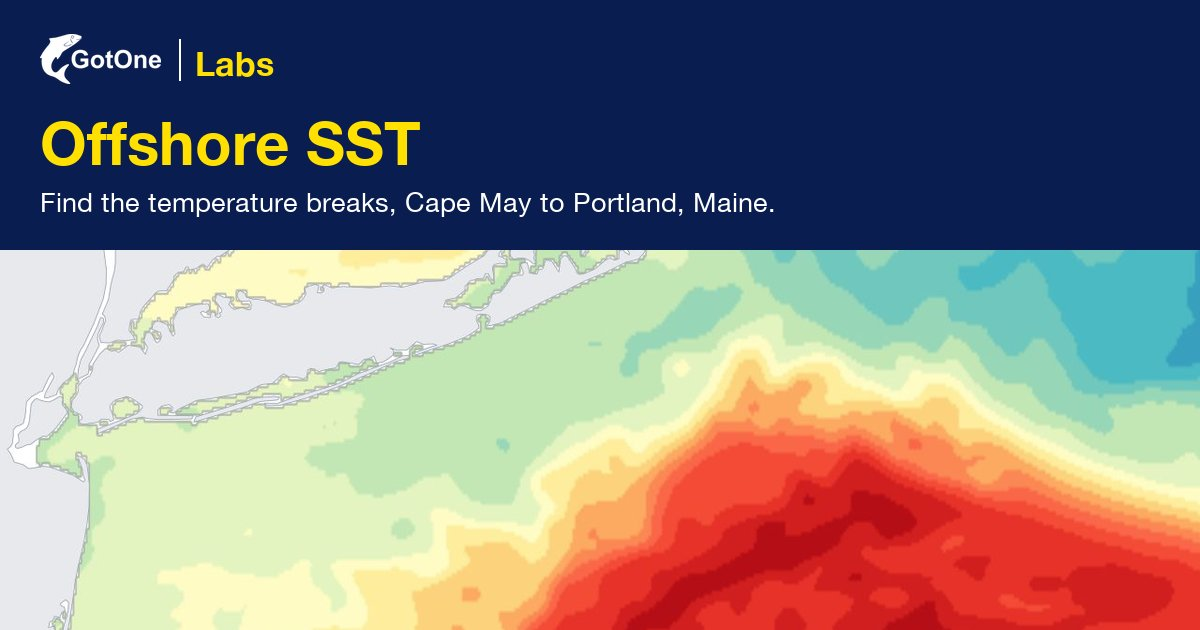
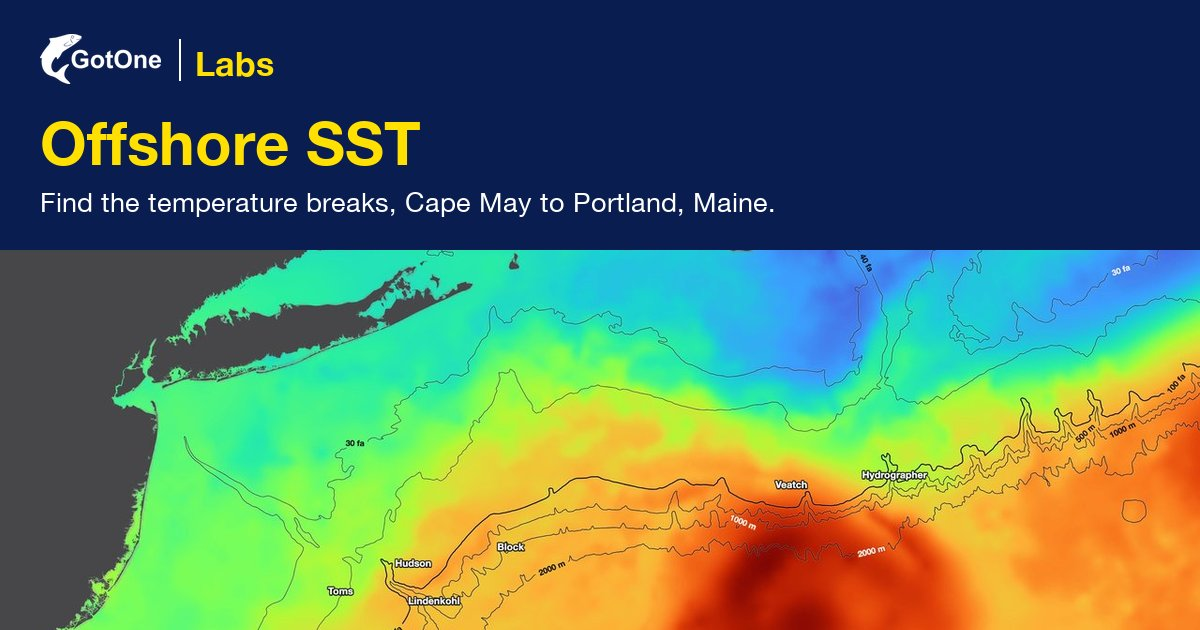
Labs previews: SST tile and share cards show the new map look
The SST tile, its link-preview card and the Labs card are now screenshots of the
live map (tools/shoot_sst_preview.mjs: basemap tiles blocked, controls and spot
dots hidden) instead of a matplotlib render in the old colors. The Labs card's
og:image carries a content hash like the tool cards.

diff --git a/tools/build_labs_previews.py b/tools/build_labs_previews.py
@@ -3,9 +3,9 @@
 
 Drawn from the apps' own data so the tiles show what each tool looks like:
 
-  sst.jpg       a week's last day of MUR SST from the local disk cache, in the
-                SST map's own colours (map/overlay.array_to_rgba), Long Island
-                to the canyons, land from Natural Earth (data/geo.py)
+  sst.jpg       the live SST map itself (tools/shoot_sst_preview.mjs screenshots it:
+                spectrum colours, depth lines, canyon names, dark land), New Jersey
+                to Nantucket, the canyons and the Gulf Stream
   currents.jpg  the tide-stage atlas at average strength, mid-flood: streamlines
                 coloured by speed with the Currents page's colour ramp
   og-sst.jpg, og-currents.jpg  1200 x 630 cards for the tool pages themselves (tool_cards)
@@ -17,15 +17,12 @@ Drawn from the apps' own data so the tiles show what each tool looks like:
 No map tiles are baked in (Esri's terms want attribution on every use), only
 our own data. Rerun after a redesign or to refresh the SST week:
 
-  .venv/bin/python tools/build_labs_previews.py [--sst cache/sst/weeks/<date>_week.json.gz]
-  (an entry saved before sprint 2, cache/sst/<date>_adaptive.json.gz, works too)
+  node tools/shoot_sst_preview.mjs            # -> build/sst-shot.png (one load of the live page)
+  .venv/bin/python tools/build_labs_previews.py [--sst-shot build/sst-shot.png]
 """
 
 import argparse
-import base64
-import glob
 import gzip
-import io
 import json
 import math
 import os
@@ -42,52 +39,21 @@ YELLOW = "#ffe000"
 W, H = 1280, 720          # 16:9 tiles
 
 
-def _npy(s):
-    return np.load(io.BytesIO(base64.b64decode(s)), allow_pickle=False)
+def sst_preview(shot):
+    """assets/labs/sst.jpg from a screenshot of the live SST map (tools/shoot_sst_preview.mjs): the
+    middle 16:9 of it at 1280 x 720. The map draws itself, so the tile has the map's own look."""
+    from PIL import Image
 
-
-def sst_preview(path):
-    """Last day of a cached SST week, cropped Long Island -> the canyons."""
-    import matplotlib
-    matplotlib.use("Agg")
-    import matplotlib.pyplot as plt
-    from data.geo import load_land_gdf
-    from map.overlay import array_to_rgba
-
-    from data import sstgrid
-    d = json.load(gzip.open(path))
-    if sstgrid.is_grid_entry(d):                   # one file per week since sprint 2 (data/sstgrid)
-        week = sstgrid.week_arrays(sstgrid.entry_blob(d), d["dates"])
-        sst = week["raw_days"][-1]["arrF"].astype(float)
-        lats, lons = week["lats"], week["lons"]
+    im = Image.open(shot).convert("RGB")
+    w, h = im.size
+    if w / h > W / H:                              # crop to 16:9 around the centre
+        cw = round(h * W / H)
+        im = im.crop(((w - cw) // 2, 0, (w - cw) // 2 + cw, h))
     else:
-        a = d["raw_days"][-1]["arrF"]              # v2 cache: base64 .npy; v1: nested list
-        sst = _npy(a) if isinstance(a, str) else np.array(a, float)
-        lats = _npy(d["lats"]) if isinstance(d["lats"], str) else np.array(d["lats"], float)
-        lons = _npy(d["lons"]) if isinstance(d["lons"], str) else np.array(d["lons"], float)
-    if lats[0] < lats[-1]:                      # north-up rows for imshow
-        lats, sst = lats[::-1], sst[::-1]
-    rgba = array_to_rgba(sst, d["vmin"], d["vmax"])
-    ext = [lons.min(), lons.max(), lats.min(), lats.max()]
-
-    lat0, lat1 = 39.55, 41.5                    # Long Island + the shelf-edge canyons
-    lon_span = (lat1 - lat0) * (W / H) / math.cos(math.radians((lat0 + lat1) / 2))
-    lon1 = -69.75
-    lon0 = lon1 - lon_span
-    fig = plt.figure(figsize=(W / 100, H / 100), dpi=100)
-    ax = fig.add_axes([0, 0, 1, 1])
-    ax.set_facecolor("#c9d3df")                 # no data (outside the map's corridor)
-    ax.imshow(rgba, extent=ext, origin="upper", interpolation="bilinear", zorder=1)
-    land = load_land_gdf()
-    land.plot(ax=ax, color="#e7e9ec", edgecolor="#9aa5b4", linewidth=0.6, zorder=2)
-    ax.set_xlim(lon0, lon1)
-    ax.set_ylim(lat0, lat1)
-    ax.set_aspect(1 / math.cos(math.radians((lat0 + lat1) / 2)))
-    ax.axis("off")
+        ch = round(w * H / W)
+        im = im.crop((0, (h - ch) // 2, w, (h - ch) // 2 + ch))
     os.makedirs(OUT, exist_ok=True)
-    fig.savefig(os.path.join(OUT, "sst.jpg"), dpi=100, pil_kwargs={"quality": 82, "optimize": True})
-    plt.close(fig)
-    return d["dates"][-1]
+    im.resize((W, H), Image.LANCZOS).save(os.path.join(OUT, "sst.jpg"), quality=85, optimize=True)
 
 
 def currents_preview():
@@ -213,7 +179,7 @@ def og_card():
 
 
 TOOL_CARDS = (   # one link-preview card per tool page (app.py serves each page's own og:image)
-    ("sst", "Offshore SST", "Find the temperature breaks, Cape May to Portland, Maine.", 0.5),
+    ("sst", "Offshore SST", "Find the temperature breaks, Cape May to Portland, Maine.", 0.25),
     ("currents", "Currents", "The current doesn't follow the tide table. See when it turns.", 0.82),
 )
 
@@ -251,7 +217,8 @@ def tool_cards():
 
 def main():
     ap = argparse.ArgumentParser(description=__doc__.split("\n")[0])
-    ap.add_argument("--sst", help="SST cache file (default: the newest Jun-Oct week cached)")
+    ap.add_argument("--sst-shot", default=os.path.join(REPO, "build", "sst-shot.png"),
+                    help="screenshot of the SST map from tools/shoot_sst_preview.mjs")
     ap.add_argument("--cards-only", action="store_true",
                     help="only rebuild the per-tool link-preview cards from the existing previews")
     a = ap.parse_args()
@@ -260,23 +227,15 @@ def main():
         for key, *_ in TOOL_CARDS:
             print(f"assets/labs/og-{key}.jpg: {os.path.getsize(os.path.join(OUT, f'og-{key}.jpg')) / 1024:.0f} KB")
         return
-    path = a.sst
-    if not path:
-        cands = [p for p in sorted(glob.glob(os.path.join(REPO, "cache", "sst", "*_adaptive.json.gz")) +
-                                   glob.glob(os.path.join(REPO, "cache", "sst", "weeks", "*_week.json.gz")),
-                                   key=os.path.basename)
-                 if os.path.basename(p)[5:7] in ("06", "07", "08", "09", "10")]
-        if not cands:
-            sys.exit("no cached summer/fall SST week in cache/sst; pass --sst")
-        path = cands[-1]
-    day = sst_preview(path)
+    if not os.path.exists(a.sst_shot):
+        sys.exit(f"{a.sst_shot} is missing: run node tools/shoot_sst_preview.mjs first")
+    sst_preview(a.sst_shot)
     currents_preview()
     wordmark()
     og_card()
     tool_cards()
     for n in ("sst.jpg", "currents.jpg", "og.jpg", "og-sst.jpg", "og-currents.jpg"):
         print(f"assets/labs/{n}: {os.path.getsize(os.path.join(OUT, n)) / 1024:.0f} KB")
-    print(f"SST day: {day} ({os.path.basename(path)})")
 
 
 if __name__ == "__main__":

diff --git a/app.py b/app.py
@@ -9,6 +9,7 @@ step or auto-play through the week's SST evolution.
 """
 
 import base64
+import hashlib
 import io
 import os
 import json
@@ -83,6 +84,18 @@ LABS_DESCRIPTION = ("Free tools for saltwater anglers from GotOne: offshore sea-
                     "temperature, and when the current really turns around Montauk, The Race "
                     "and Plum Gut.")
 
+
+def _og_image(name):
+    """Share-card URL with a content hash, so Facebook, iMessage and the rest fetch a rebuilt card
+    (they cache images by URL)."""
+    path = os.path.join(os.path.dirname(os.path.abspath(__file__)), "assets", "labs", name)
+    try:
+        v = "?v=" + hashlib.md5(open(path, "rb").read()).hexdigest()[:8]
+    except OSError:
+        v = ""
+    return f"https://labs.gotoneapp.com/assets/labs/{name}{v}"
+
+
 app = dash.Dash(
     __name__,
     external_stylesheets=[dbc.themes.FLATLY],
@@ -95,7 +108,7 @@ app = dash.Dash(
         {"name": "description", "content": LABS_DESCRIPTION},
         {"property": "og:title", "content": "GotOne Labs · Free tools for saltwater anglers"},
         {"property": "og:description", "content": LABS_DESCRIPTION},
-        {"property": "og:image", "content": "https://labs.gotoneapp.com/assets/labs/og.jpg"},
+        {"property": "og:image", "content": _og_image("og.jpg")},
         {"property": "og:url", "content": "https://labs.gotoneapp.com/"},
         {"property": "og:type", "content": "website"},
         {"name": "twitter:card", "content": "summary_large_image"},
@@ -174,7 +187,6 @@ if not os.environ.get("_SST_WATCHDOG_STARTED"):
 # each address. /sst and /currents get their own title, description and card (assets/labs/og-<tool>.jpg, from
 # tools/build_labs_previews.py); everything else keeps the Labs card above. ?v= busts preview caches on a new card.
 def _tool_previews():
-    import hashlib
     import html as _html
     from layout.labsview import TOOLS
     out = {}
@@ -183,9 +195,8 @@ def _tool_previews():
         img = os.path.join(os.path.dirname(os.path.abspath(__file__)), "assets", "labs", f"og-{key}.jpg")
         if t["href"].startswith("http") or not os.path.exists(img):
             continue
-        v = hashlib.md5(open(img, "rb").read()).hexdigest()[:8]
         out["/" + key] = {"title": f"{t['title']} · GotOne Labs", "desc": t["text"],
-                          "image": f"https://labs.gotoneapp.com/assets/labs/og-{key}.jpg?v={v}",
+                          "image": _og_image(f"og-{key}.jpg"),
                           "url": f"https://labs.gotoneapp.com/{key}", "esc": _html.escape}
     return out
 

diff --git a/CLAUDE.md b/CLAUDE.md
@@ -351,7 +351,7 @@ Short, wide inlets (Lake Montauk, Accabonac, Northwest Creek, Sag Harbor Cove) d
 | `tools/perf_sstengine.mjs` | SSTEngine frame times on a 4x-throttled phone profile |
 | `layout/sidebar.py` | Date picker, animation controls, collapsible POI checklist, fetch button, version indicator |
 | `layout/mapview.py` | dl.Map with custom panes, loading overlay, hamburger button |
-| `map/overlay.py` | Array → RGBA → base64 PNG with rows resampled to Web Mercator (`mercator_rows`). No longer used to serve the map (sprint 2: SSTEngine draws it); kept for `tools/build_labs_previews.py` and `tools/test_sst_ui.py` |
+| `map/overlay.py` | Array → RGBA → base64 PNG with rows resampled to Web Mercator (`mercator_rows`). No longer used to serve the map (sprint 2: SSTEngine draws it) or the Labs previews; kept for `tools/test_sst_ui.py` |
 | `map/colorscale.py` | Legend component, adaptive color bounds |
 | `map/pois.py` | 32 fishing spots + The Dump rectangle, multi-select picker |
 | `map/measure.py` | Haversine distance, initial bearing, compass direction, magnetic variation (bilinear lookup in `map/declination.py`) and the true + magnetic course |
@@ -387,7 +387,7 @@ Short, wide inlets (Lake Montauk, Accabonac, Northwest Creek, Sag Harbor Cove) d
 | `layout/labsview.py` | GotOne Labs home: hero + one tile per tool (`TOOLS`) + about/footer |
 | `assets/labs.css` | Labs home styles (gotoneapp.com look: Helvetica Neue, navy #091d50, yellow #ffe000), scoped to `.labs-page` |
 | `assets/labs.js` | Page titles, the anonymous beacons (`GotOneLabs.page()` → `/api/hit`, `GotOneLabs.event(name)` → `/api/event`, once per page view per name), `data-labs-event` elements, and the "Was this helpful?" control (fills each empty `.labs-helpful[data-tool]` div; vote + optional note → `/api/feedback`) |
-| `assets/labs/` | Tile previews + share card (`tools/build_labs_previews.py`, from the tools' own data) and the white horizontal wordmark (from GotOne/Graphics) |
+| `assets/labs/` | Tile previews + share cards (`tools/build_labs_previews.py`; the SST tile is a screenshot of the live map from `tools/shoot_sst_preview.mjs`, no basemap tiles, so rerun both after a look change) and the white horizontal wordmark (from GotOne/Graphics). The Squarespace Labs page loads the tiles from this app, so they update with a deploy; its own share image is an uploaded copy of `og.jpg` (re-upload in Page Settings > Social Image) |
 | `data/labstats.py` | Labs analytics store: page ids + tools (`PAGES`, `TOOLS`), the event whitelist (`EVENTS`), `record()` / `record_event()` / `record_feedback()` with every acceptance rule, `summary()` for the dashboard. SQLite on the persistent disk, daily-salted visitor hash, 90-day pruning with daily uniques kept |
 | `layout/statsview.py` | The private `/labs/stats` page: per tool views / visitors (Recount by page), referrers, feature use, Helpful votes; latest notes (escaped); by-day table |
 | `tools/test_sst_fetch.py` | SST data-path tests against a fake ERDDAP (no network): `OBJC_DISABLE_INITIALIZE_FORK_SAFETY=YES .venv/bin/python tools/test_sst_fetch.py` |

diff --git a/CHANGELOG.md b/CHANGELOG.md
@@ -1,5 +1,14 @@
 # Changelog
 
+## 2026-10-17 - Labs previews show the new SST look
+
+### Changed
+- The Offshore SST tile (Labs home, here and on gotoneapp.com/labs), its link-preview card and the Labs card are now pictures of the live map: the spectrum colors with the auto range, depth lines and canyon names, dark land, New Jersey to Nantucket with the canyons and the Gulf Stream (Oct 15, 2026). The SST card's band moved up to include Long Island.
+- The Labs card's link (`og:image`) carries a content hash like the tool cards, so link previews fetch a rebuilt card instead of a cached one.
+
+### Added
+- `tools/shoot_sst_preview.mjs`: one load of the SST page in headless Chrome, basemap tiles blocked (the dark basemap's land color fills in), controls, legend and spot dots hidden, the map saved at 2x to `build/sst-shot.png`; `tools/build_labs_previews.py` crops it to the 16:9 tile (`--sst-shot`). The old matplotlib SST preview (classic colors) is gone.
+
 ## 2026-10-17 - SST: smooth coastlines and smooth water when zoomed in
 
 ### Changed
